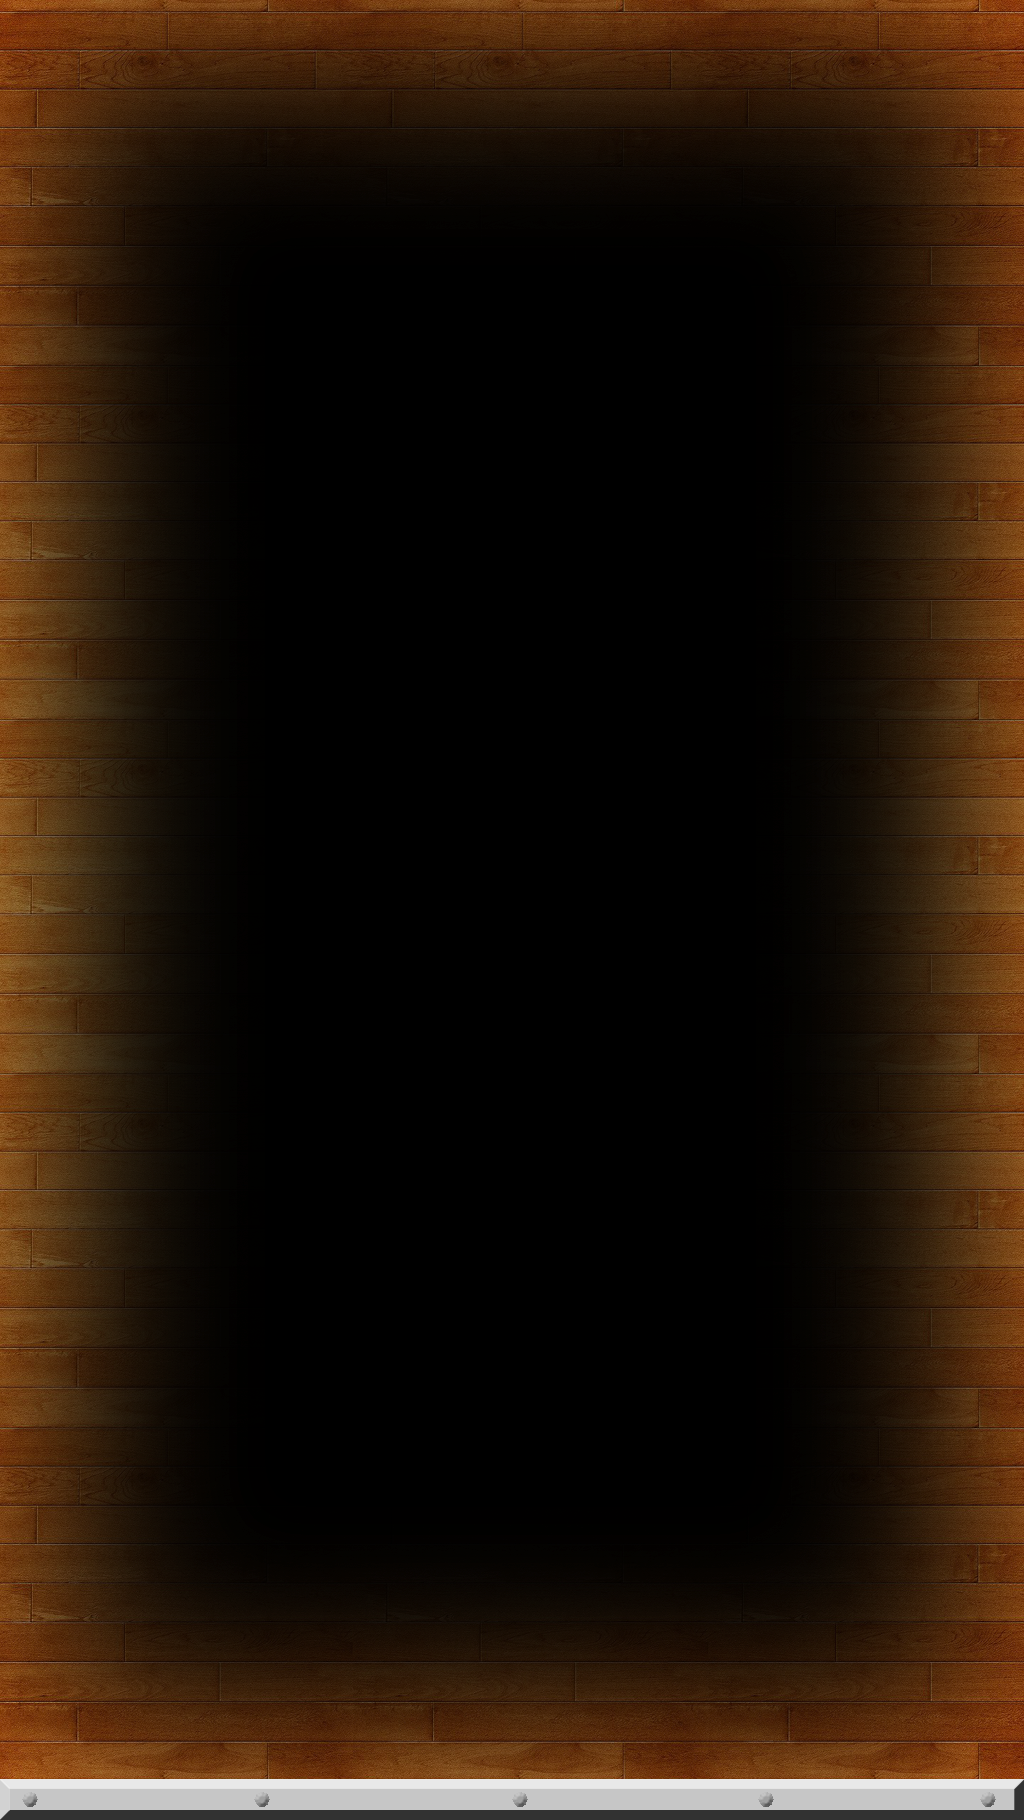
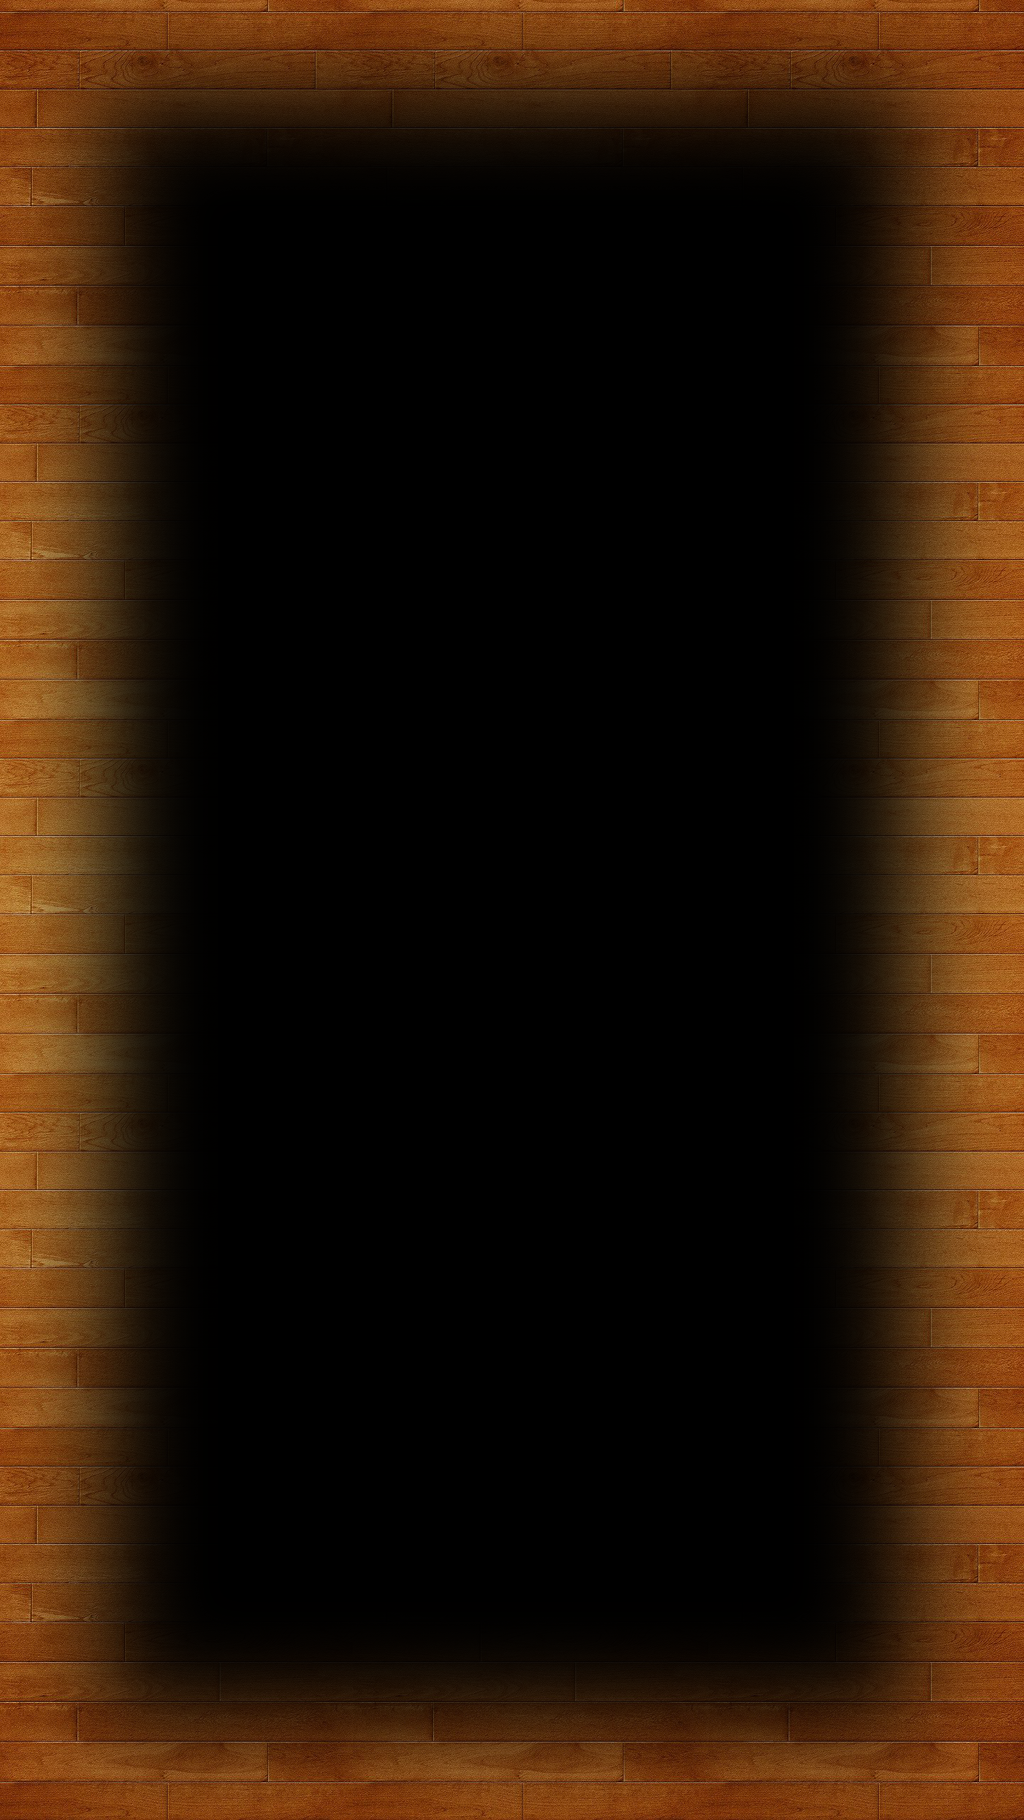
Изменение дизайна
- Убрана полоска снизу заднего плана магазинов.

Changed region(s): [[0.125, 0.0, 1.0, 0.9231], [0.0, 0.0308, 0.125, 0.9231], [0.0, 0.8923, 1.0, 1.0]]

diff --git a/src/ru/majestic/thetown/view/dialogs/shops/impl/ClickersShopDialog.java b/src/ru/majestic/thetown/view/dialogs/shops/impl/ClickersShopDialog.java
@@ -25,8 +25,8 @@ public class ClickersShopDialog extends AShopDialog implements ClickersShopPanel
    public ClickersShopDialog(IGameManager gameManager) {
       super(gameManager);
       
-      foodClickersShopPanel   = new FoodClickersShopPanel((getWidth() - (PADDING * 4)) / 2 + (PADDING * 3), getHeight() - PADDING  - 118 - getBuyGoldShopPanel().getHeight(), (getWidth() - (PADDING * 4)) / 2, 100, gameManager.getClickersManager().getClicker(IClickersManager.CLICKER_TYPE_FOOD));
-      woodClickersShopPanel   = new WoodClickersShopPanel(PADDING, getHeight() - PADDING - 118 - getBuyGoldShopPanel().getHeight(), (getWidth() - (PADDING * 4)) / 2, 100, gameManager.getClickersManager().getClicker(IClickersManager.CLICKER_TYPE_WOOD));
+      foodClickersShopPanel   = new FoodClickersShopPanel((getWidth() - (PADDING * 4)) / 2 + (PADDING * 3), getHeight() - PADDING  - 100 - getBuyGoldShopPanel().getHeight(), (getWidth() - (PADDING * 4)) / 2, 100, gameManager.getClickersManager().getClicker(IClickersManager.CLICKER_TYPE_FOOD));
+      woodClickersShopPanel   = new WoodClickersShopPanel(PADDING, getHeight() - PADDING - 100 - getBuyGoldShopPanel().getHeight(), (getWidth() - (PADDING * 4)) / 2, 100, gameManager.getClickersManager().getClicker(IClickersManager.CLICKER_TYPE_WOOD));
       
       foodClickersShopPanel.setClickersShopPanelActionsListener(this);      
       woodClickersShopPanel.setClickersShopPanelActionsListener(this);

diff --git a/src/ru/majestic/thetown/view/dialogs/shops/panels/impl/BuyGoldShopPanel.java b/src/ru/majestic/thetown/view/dialogs/shops/panels/impl/BuyGoldShopPanel.java
@@ -30,7 +30,7 @@ public class BuyGoldShopPanel extends Rectangle implements IBuyGoldShopPanel, On
    private IBuyGoldButton[] buyGoldBtns;
    
    public BuyGoldShopPanel(IShopDialog shopDialog) {
-      super(0, shopDialog.getHeight() - HEIGHT - 17, shopDialog.getWidth(), HEIGHT, ResourceManager.getInstance().getEngine().getVertexBufferObjectManager());
+      super(0, shopDialog.getHeight() - HEIGHT, shopDialog.getWidth(), HEIGHT, ResourceManager.getInstance().getEngine().getVertexBufferObjectManager());
       
       buyGoldBtns = new IBuyGoldButton[TOTAL_BTNS_COUNT];
       

diff --git a/src/ru/majestic/thetown/view/dialogs/shops/panels/workers/impl/SelectWorkerClassShopPanel.java b/src/ru/majestic/thetown/view/dialogs/shops/panels/workers/impl/SelectWorkerClassShopPanel.java
@@ -18,7 +18,7 @@ public class SelectWorkerClassShopPanel extends ASelectWorkerClassShopPanel impl
    
    
    public SelectWorkerClassShopPanel(IShopDialog dialog) {
-      super(0, dialog.getHeight() - HEIGHT - 20 - dialog.getBuyGoldShopPanel().getHeight(), dialog.getWidth(), HEIGHT);          
+      super(0, dialog.getHeight() - HEIGHT - 2 - dialog.getBuyGoldShopPanel().getHeight(), dialog.getWidth(), HEIGHT);          
       
       setAlpha(0.0f);
       
